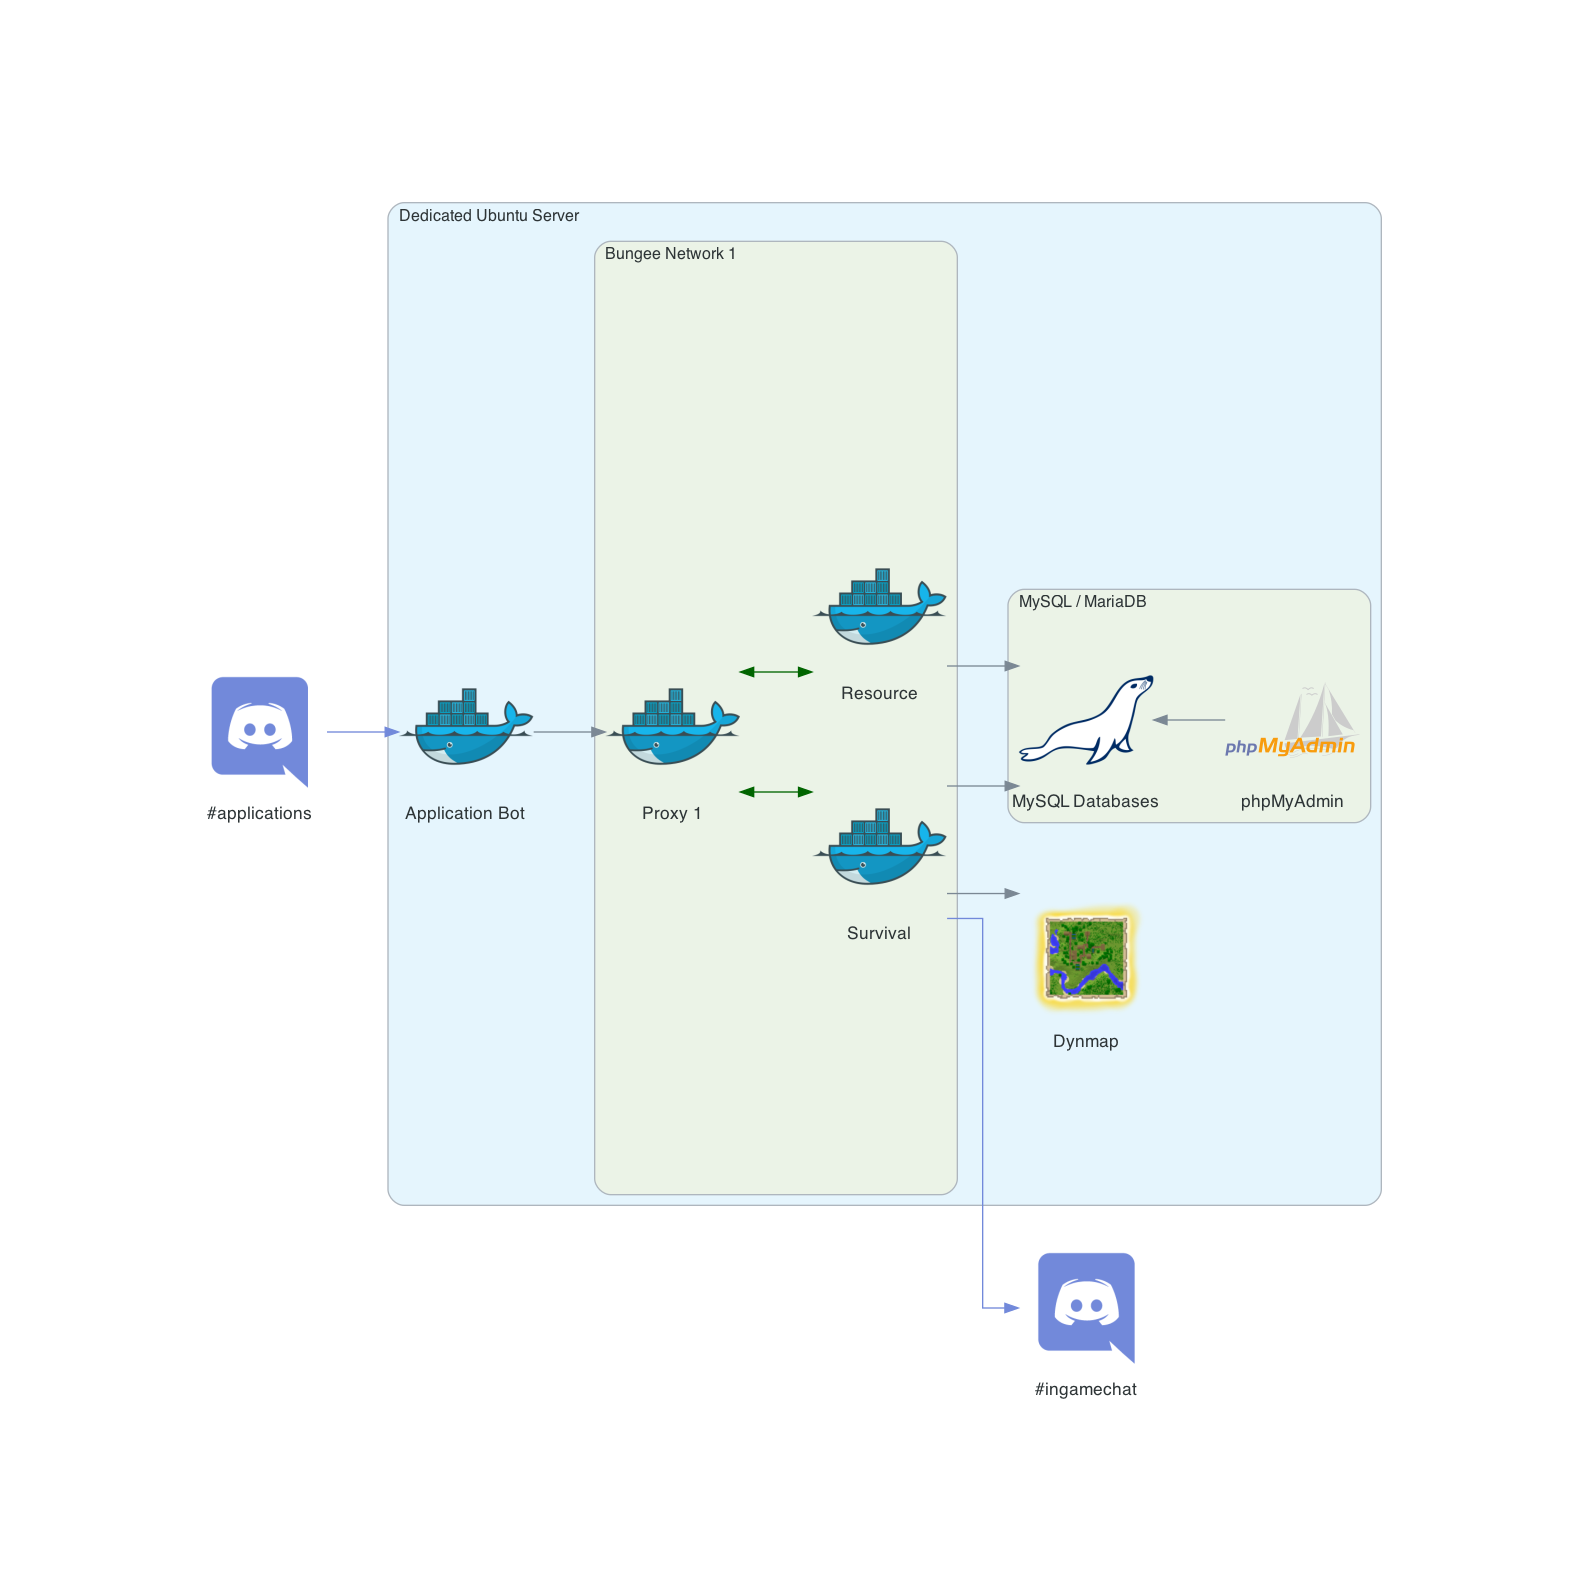
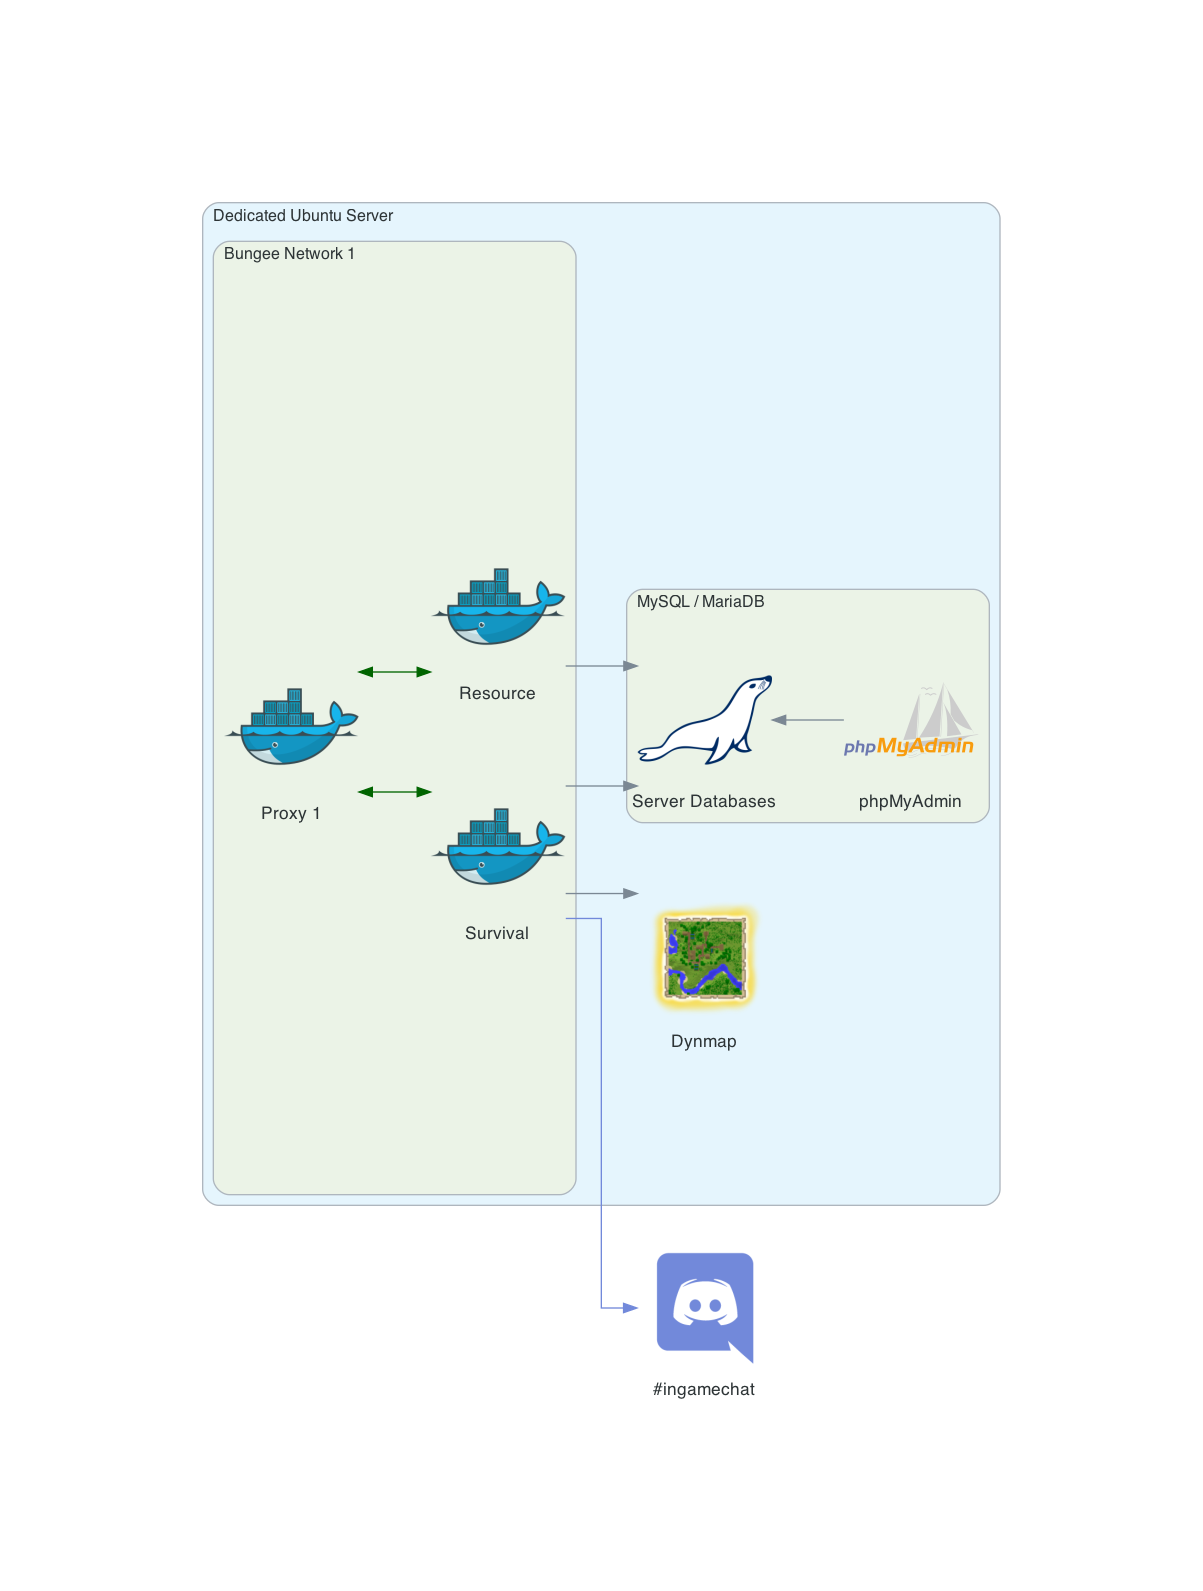
Add game proxies diagram Remove application bot from main network Fix arrow colours in group network

diff --git a/game_proxies/game_proxies.py b/game_proxies/game_proxies.py
@@ -1,0 +1,39 @@
+# diagram.py
+from urllib.request import urlretrieve
+
+from diagrams import Cluster, Diagram, Edge
+from diagrams.onprem.container import Docker
+from diagrams.onprem.database import MariaDB
+from diagrams.saas.chat import Discord
+from diagrams.custom import Custom
+
+#phpMyAdmin
+phpmyadmin_url = "https://upload.wikimedia.org/wikipedia/commons/4/4f/PhpMyAdmin_logo.svg"
+phpmyadmin_icon = "phpmyadmin.png"
+urlretrieve(phpmyadmin_url, phpmyadmin_icon)
+
+with Diagram(filename="game_proxies", show=True):
+    
+    applications = Discord("#applications")
+
+    with Cluster("Dedicated Ubuntu Server"):
+
+        applicationbot = Docker("Application Bot")
+
+        with Cluster("Game Servers - Bungee Network 2"):
+            proxy2 = Docker("Proxy Network 2")
+
+        with Cluster("Game Servers - Bungee Network 1"):
+            proxy1 = Docker("Proxy Network 1")
+
+        with Cluster("MySQL / MariaDB"):  
+            maindb = MariaDB("Proxy Databases")
+            phpmyadmin = Custom("phpMyAdmin", phpmyadmin_icon)
+
+    applications >> Edge(color="#7289DA") >> applicationbot
+    applicationbot >> proxy1
+    applicationbot >> proxy2
+    
+    proxy1 >> Edge() << maindb
+    proxy2 >> Edge() << maindb
+    maindb << phpmyadmin

diff --git a/networks/main_network.py b/networks/main_network.py
@@ -25,12 +25,12 @@ urlretrieve(dynmap_url, dynmap_icon)
 
 with Diagram(filename="main_network", show=True, direction="LR"):
 
-    applications = Discord("#applications")
+    # applications = Discord("#applications")
     ingamechat = Discord("#ingamechat")
 
     with Cluster("Dedicated Ubuntu Server"):
 
-        applicationbot = Docker("Application Bot")
+        # applicationbot = Docker("Application Bot")
 
         dynmap = Custom("Dynmap", dynmap_icon)
         paddingdynmap = Blank("") 
@@ -48,11 +48,11 @@ with Diagram(filename="main_network", show=True, direction="LR"):
             proxy1 - Edge(penwidth="0.0") -  padding2
 
         with Cluster("MySQL / MariaDB"):  
-            maindb = MariaDB("MySQL Databases")
+            maindb = MariaDB("Server Databases")
             phpmyadmin = Custom("phpMyAdmin", phpmyadmin_icon)
 
-    applications >> Edge(color="#7289DA") >> applicationbot
-    applicationbot >> proxy1
+    # applications >> Edge(color="#7289DA") >> applicationbot
+    # applicationbot >> proxy1
 
     survival >> maindb
     resource >> maindb

diff --git a/game_servers/game_servers_grouped.py b/game_servers/game_servers_grouped.py
@@ -26,7 +26,7 @@ with Diagram(filename="game_servers_grouped", show=True, direction="TB"):
             creative = Docker("Creative")
             modded = Docker("Modded")
             minigames = Docker("Minigames")
-            proxy2 >> [minigames, creative, modded]
+            proxy2 >> Edge(color="darkgreen") >> [minigames, creative, modded]
 
         with Cluster("Game Servers - Bungee Network 1"):
             proxy1 = Docker("Proxy Network 1")
